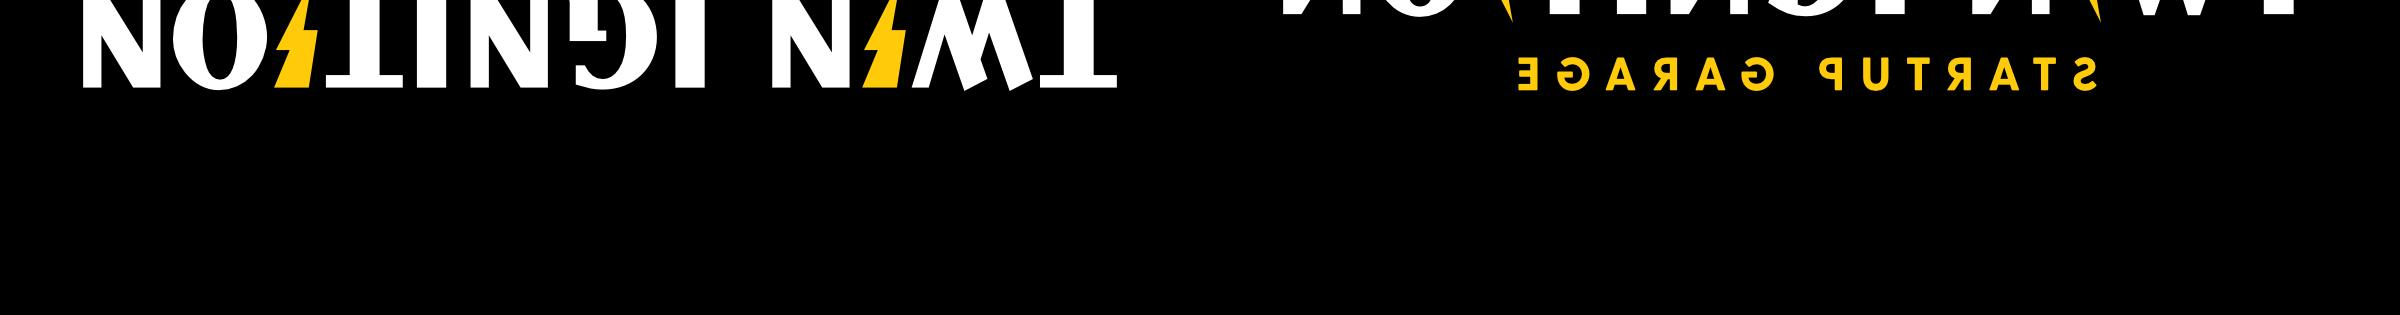
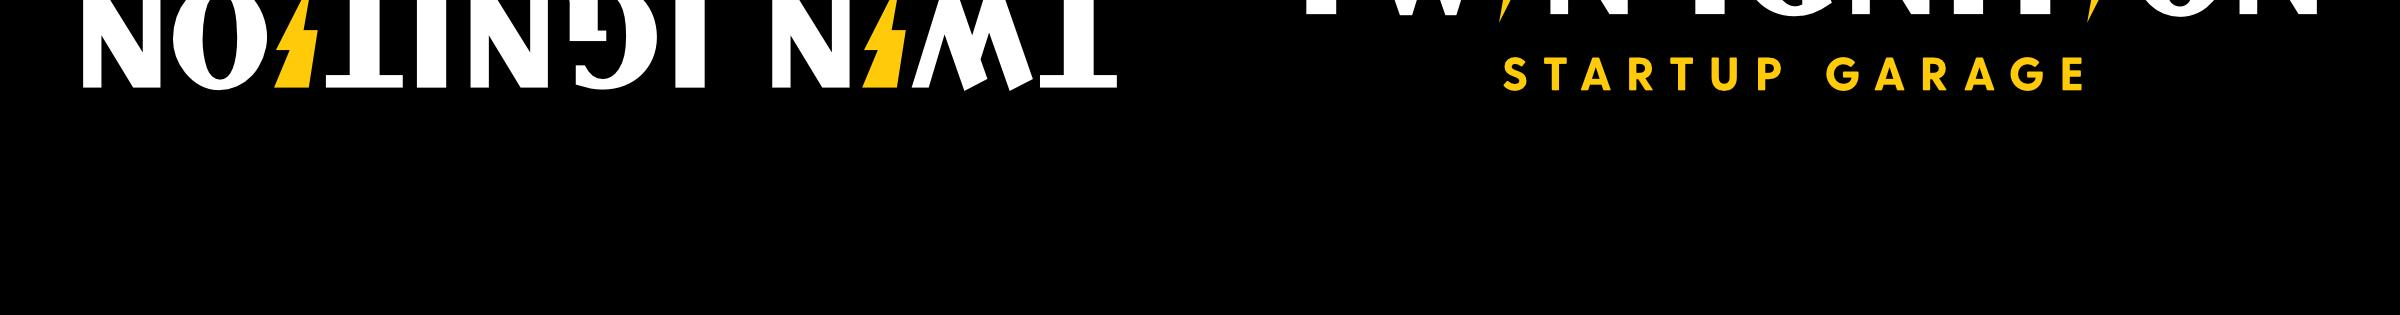
lets try agian eh?

Changed region(s): [[0.625, 0.1714, 0.875, 0.2857], [0.5312, 0.0, 0.9688, 0.0571]]

diff --git a/utils.py b/utils.py
@@ -23,7 +23,7 @@ def restructureImage(img, outputFileName, panels=6):
         img_top = np.flip(img_top, axis=1)
         img_bottom = img[int(img.shape[0] / 2) :, :img.shape[1], :]
         #img_bottom = np.flip(img_bottom, axis=0)
-        img_bottom = np.flip(img_bottom, axis=1)
+        #img_bottom = np.flip(img_bottom, axis=1)
                 
         stitched_img = np.empty((img_top.shape[0], img_top.shape[1] * 2, img_top.shape[2]))
         stitched_img = np.hstack((img_top, img_bottom))
